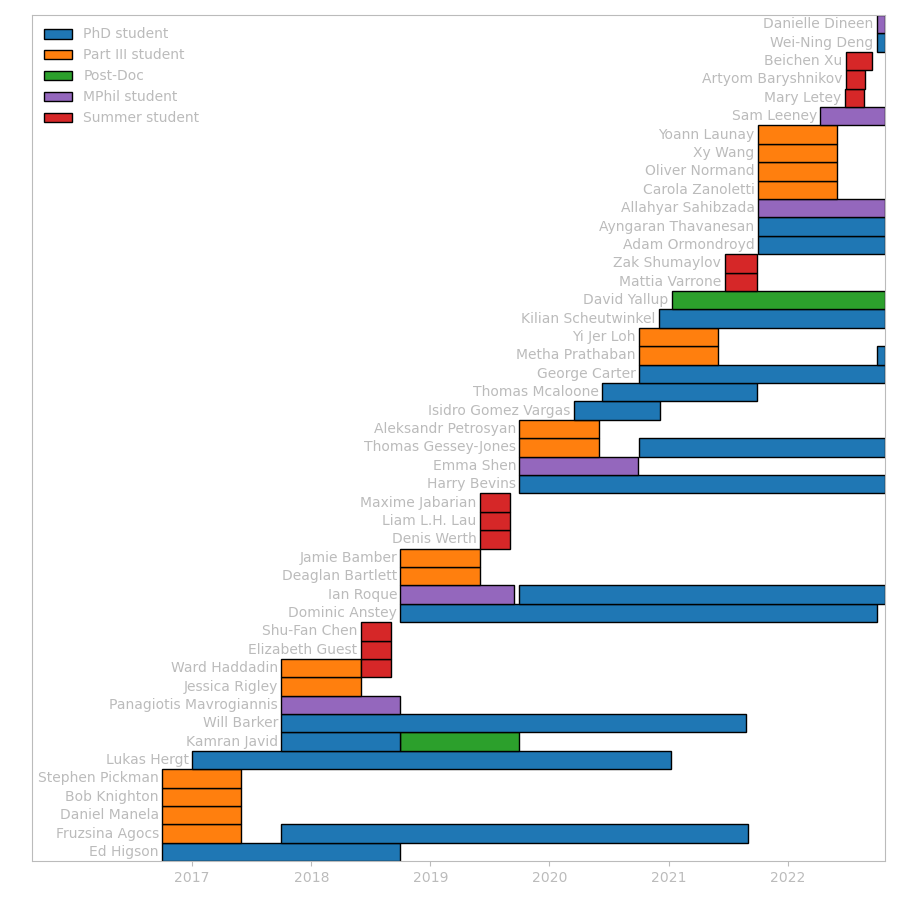
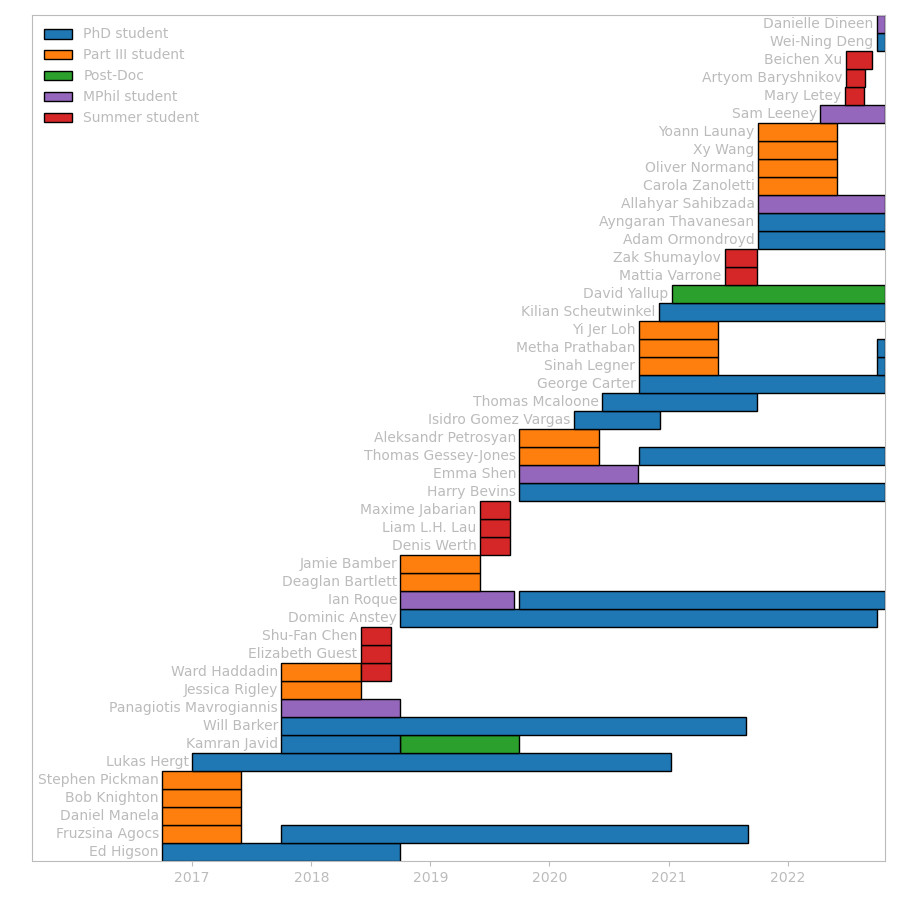
Added Sinah Legner

Changed region(s): [[0.0311, 0.0311, 0.9956, 0.9333], [0.3111, 0.9022, 0.84, 0.9333]]

diff --git a/assets/students/students.html b/assets/students/students.html
@@ -52,6 +52,20 @@
   <h1>PhD students</h1>
   <div class="grid">
     <div class="grid-item">
+      <img src="/assets/students/images/sinah_legner.jpg" />
+    </div>
+    <div class="grid-item">
+      <p>
+        <font size="+2">Sinah Legner</font>
+      </p>
+      <p>
+        <ul>
+          <li>PhD student from Oct 2022</li>
+          <li>Part III student from Oct 2020 to Jun 2021</li>
+        </ul>
+      </p>
+    </div>
+    <div class="grid-item">
       <img src="/assets/students/images/metha_prathaban.jpg" />
     </div>
     <div class="grid-item">
